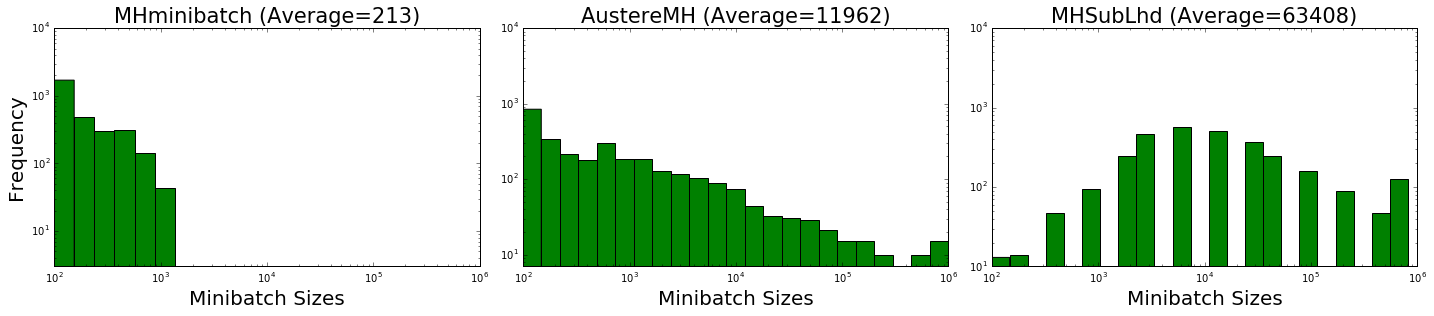
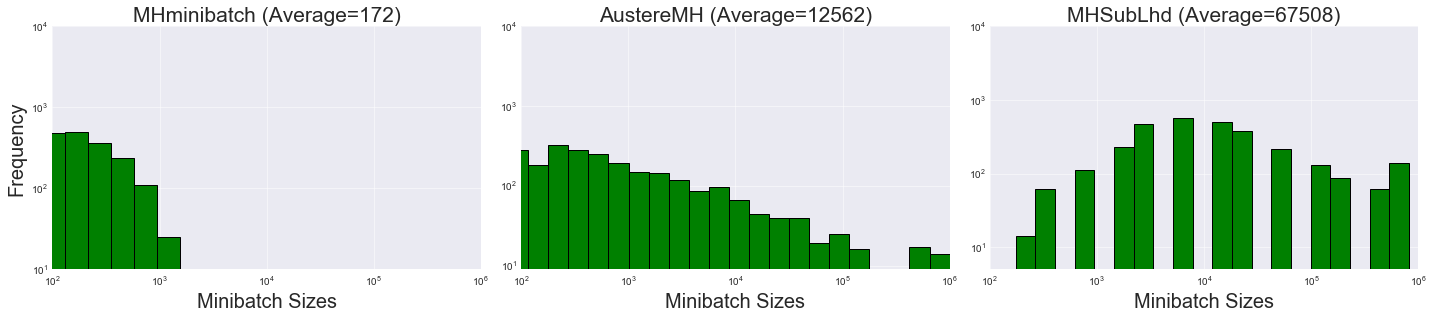
update paper

diff --git a/uai2017/paper.tex b/uai2017/paper.tex
@@ -797,7 +797,7 @@ speed and efficiency. The histograms of the (final) minibatch sizes used each
 iteration show that our method consumes significantly less data; the
 distribution is short-tailed and the mean is 172, more than an order of
 magnitude better compared to the other two methods (averages are 12562 and
-675008). \textbf{Daniel: Xinlei, these numbers don't match
+67508). \textbf{Daniel: Xinlei, these numbers don't match
 Figure~\ref{fig:gauss_mix_2} and the figures need to be updated so the scatter
 plot has the correct method names and the scaling key, while the histograms have
 the correct names and the seaborn background.} We
